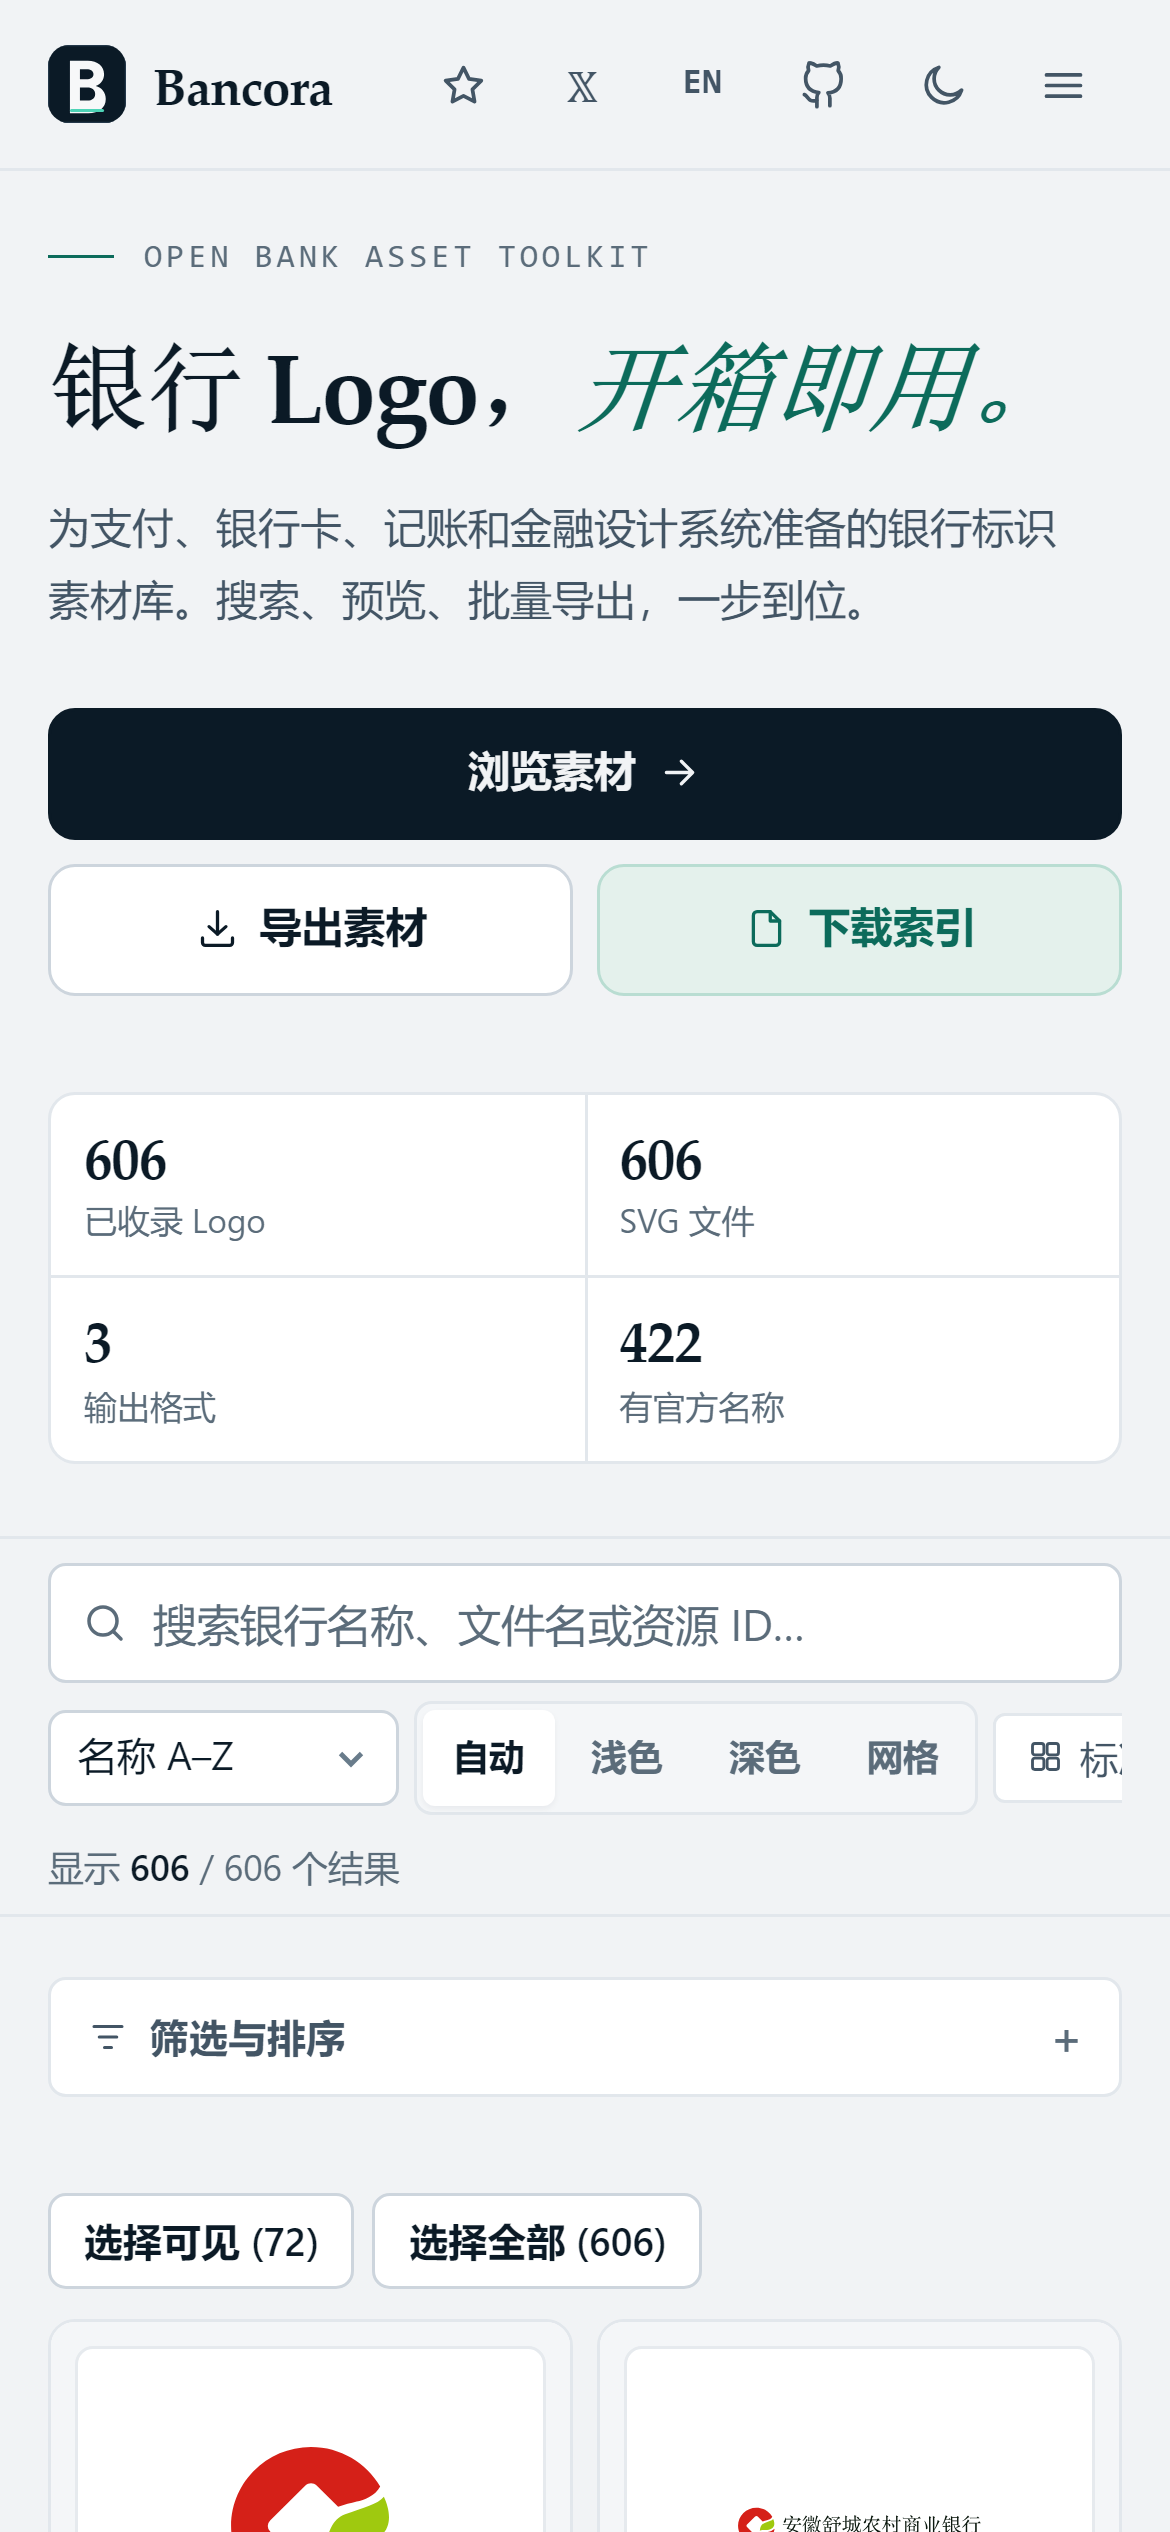
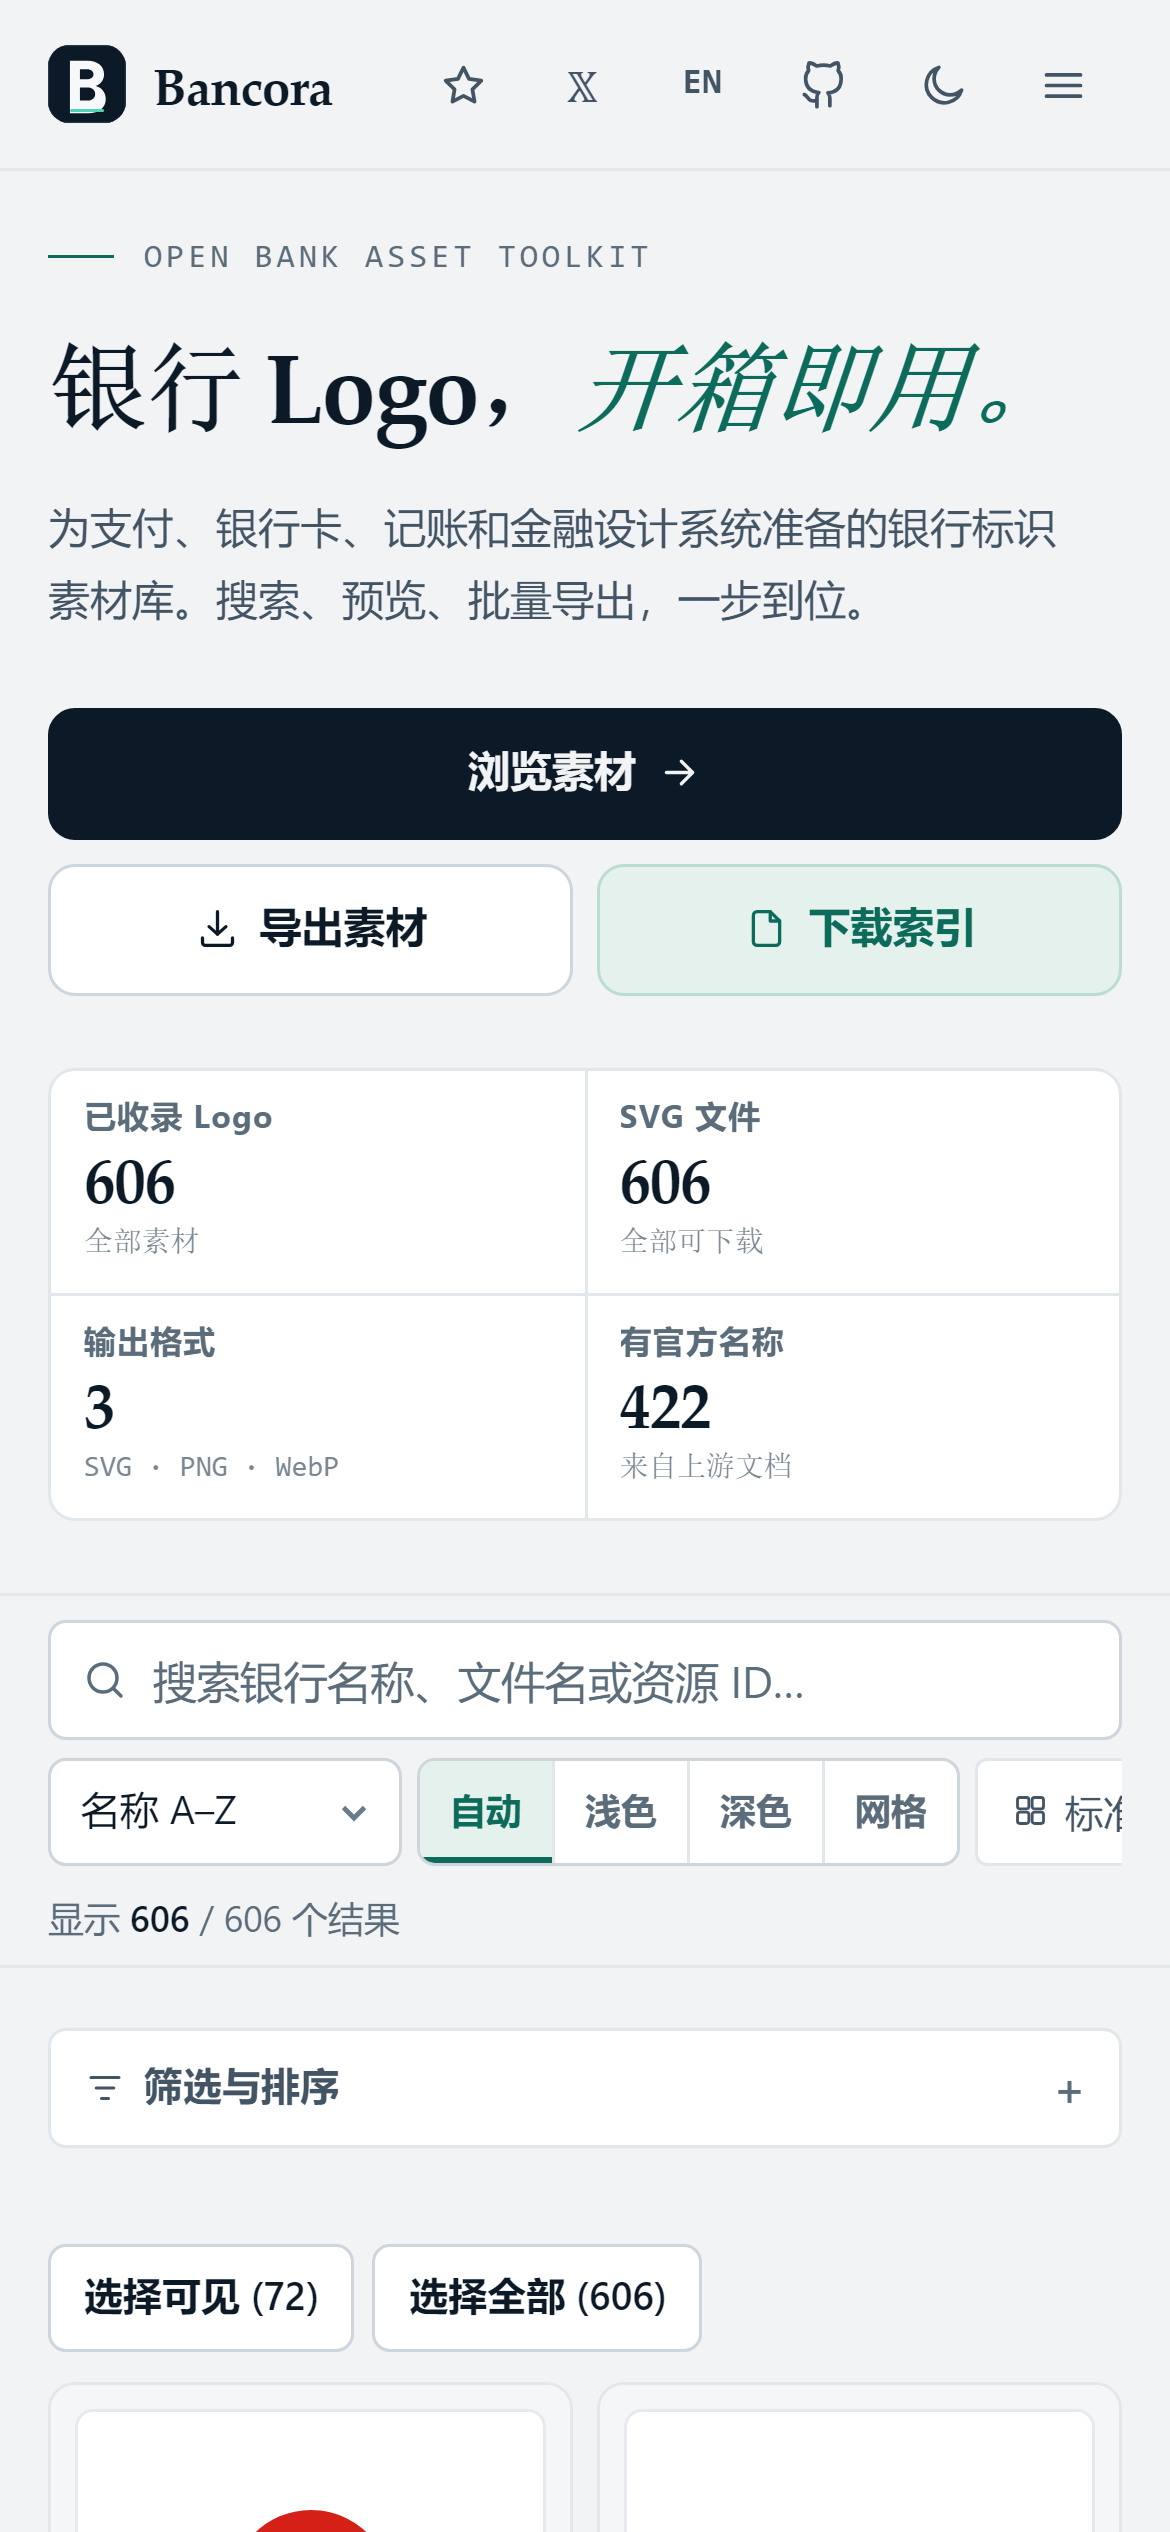
style: table-style hero stats and balanced footer

diff --git a/src/styles/app.css b/src/styles/app.css
@@ -352,11 +352,11 @@
   }
 }
 
-.hero__stats {
+.stats {
   display: grid;
   grid-template-columns: repeat(4, minmax(0, 1fr));
   gap: 1px;
-  margin-top: var(--s7);
+  margin: var(--s6) 0 0;
   border: 1px solid var(--line);
   border-radius: var(--r-md);
   background: var(--line);
@@ -364,26 +364,50 @@
 }
 
 .stat {
+  display: flex;
+  flex-direction: column;
+  gap: 2px;
   background: var(--surface);
-  padding: 12px 14px;
+  padding: 11px 14px 12px;
   min-width: 0;
 }
 
+.stat__label {
+  order: 0;
+  font-size: 0.6875rem;
+  font-weight: 650;
+  letter-spacing: 0.05em;
+  color: var(--muted);
+  line-height: 1.3;
+  white-space: nowrap;
+  overflow: hidden;
+  text-overflow: ellipsis;
+}
+
 .stat__value {
+  order: 1;
+  margin: 0;
   font-family: var(--font-display);
-  font-size: 1.375rem;
+  font-size: 1.5rem;
   font-weight: 600;
   letter-spacing: -0.02em;
   font-variant-numeric: tabular-nums;
-  line-height: 1.2;
+  line-height: 1.15;
+  color: var(--ink);
   white-space: nowrap;
 }
 
-.stat__label {
-  font-size: 0.71875rem;
-  color: var(--muted);
-  margin-top: 3px;
-  line-height: 1.35;
+.stat__hint {
+  order: 2;
+  margin: 0;
+  font-family: var(--font-mono);
+  font-size: 0.625rem;
+  letter-spacing: 0.01em;
+  color: color-mix(in srgb, var(--muted) 82%, transparent);
+  line-height: 1.4;
+  white-space: nowrap;
+  overflow: hidden;
+  text-overflow: ellipsis;
 }
 
 .showcase {
@@ -987,8 +1011,14 @@
 .load-more__btn {
   flex: none;
   height: 42px;
-  padding: 0 18px;
-  gap: 8px;
+  padding: 0 16px;
+  gap: 7px;
+  white-space: nowrap;
+  flex-wrap: nowrap;
+}
+
+.load-more__btn > * {
+  flex: none;
 }
 
 .load-more__count {
@@ -1883,9 +1913,65 @@
 
 .footer__top {
   display: grid;
-  grid-template-columns: minmax(0, 1.5fr) minmax(0, 1fr);
-  gap: var(--s6);
+  grid-template-columns: minmax(0, 1fr) minmax(0, 1.25fr);
+  grid-template-rows: auto auto;
+  gap: var(--s5) var(--s8);
+  align-items: start;
   padding-bottom: var(--s5);
+}
+
+.footer__brand {
+  grid-column: 1;
+  grid-row: 1;
+}
+
+.footer__stats {
+  grid-column: 1;
+  grid-row: 2;
+  align-self: end;
+}
+
+.footer__cols {
+  grid-column: 2;
+  grid-row: 1 / span 2;
+  align-self: center;
+}
+
+/* Brand block on the left, a compact credibility strip on the right. */
+.footer__stats {
+  display: grid;
+  grid-template-columns: repeat(3, minmax(0, 1fr));
+  gap: 1px;
+  border: 1px solid var(--line);
+  border-radius: var(--r-md);
+  background: var(--line);
+  overflow: hidden;
+  align-self: start;
+}
+
+.footer__stat {
+  display: flex;
+  flex-direction: column;
+  gap: 1px;
+  padding: 10px 12px;
+  background: var(--surface-raised);
+  min-width: 0;
+}
+
+.footer__stat-value {
+  font-family: var(--font-display);
+  font-size: 1.0625rem;
+  font-weight: 600;
+  letter-spacing: -0.02em;
+  line-height: 1.2;
+  white-space: nowrap;
+}
+
+.footer__stat-label {
+  font-size: 0.625rem;
+  color: var(--muted);
+  line-height: 1.3;
+  white-space: nowrap;
 }
 
 .footer__links {
@@ -2030,7 +2116,15 @@
 
   .footer__top {
     grid-template-columns: minmax(0, 1fr);
+    grid-template-rows: auto;
     gap: var(--s5);
+  }
+
+  .footer__brand,
+  .footer__stats,
+  .footer__cols {
+    grid-column: 1;
+    grid-row: auto;
   }
 
   .footer__cols {
@@ -2114,7 +2208,7 @@
     grid-template-columns: repeat(2, minmax(0, 1fr));
   }
 
-  .hero__stats {
+  .stats {
     grid-template-columns: repeat(2, minmax(0, 1fr));
   }
 }
@@ -2182,15 +2276,19 @@
   }
 
   .stat {
-    padding: 10px 11px;
+    padding: 9px 11px 10px;
   }
 
   .stat__value {
-    font-size: 1.1875rem;
+    font-size: 1.3125rem;
   }
 
   .stat__label {
-    font-size: 0.6875rem;
+    font-size: 0.65625rem;
+  }
+
+  .stat__hint {
+    font-size: 0.59375rem;
   }
 
   .explorer__bar {
@@ -2285,10 +2383,12 @@
   .filters-toggle {
     display: flex;
     align-items: center;
-    gap: 7px;
+    flex-wrap: nowrap;
+    gap: 6px;
     width: 100%;
     height: 40px;
-    padding: 0 12px;
+    padding: 0 11px;
+    white-space: nowrap;
     border: 1px solid var(--line);
     border-radius: var(--r-sm);
     background: var(--surface);
@@ -2538,9 +2638,7 @@
     grid-template-columns: repeat(2, minmax(0, 1fr));
   }
 
-  .hero__stats {
-    grid-template-columns: repeat(2, minmax(0, 1fr));
-  }
+
 
   .btn {
     padding: 0 12px;

diff --git a/src/components/StatsBar.tsx b/src/components/StatsBar.tsx
@@ -1,6 +1,12 @@
 import { useApp } from '../context/AppContext';
 
-/** Hero statistics, computed from the loaded index — never hard-coded. */
+/**
+ * Hero statistics.
+ *
+ * Layout: label (small caps) → value (serif, tabular) → caption. All three lines
+ * line up across the four cells, so the strip reads as one table instead of four
+ * unrelated numbers. Values are computed from the loaded index — never hard-coded.
+ */
 export function StatsBar() {
   const { dataset, assets, t } = useApp();
 
@@ -10,20 +16,21 @@ export function StatsBar() {
   const formatter = new Intl.NumberFormat('en-US');
 
   const items = [
-    { value: total ? formatter.format(total) : '—', label: t('hero.stat.total') },
-    { value: svgCount ? formatter.format(svgCount) : '—', label: t('hero.stat.svg') },
-    { value: '3', label: t('hero.stat.formats') },
-    { value: total ? formatter.format(documented) : '—', label: t('hero.stat.named') },
+    { label: t('hero.stat.total'), value: total ? formatter.format(total) : '—', hint: t('hero.stat.totalHint') },
+    { label: t('hero.stat.svg'), value: svgCount ? formatter.format(svgCount) : '—', hint: t('hero.stat.svgHint') },
+    { label: t('hero.stat.formats'), value: '3', hint: t('hero.stat.formatsHint') },
+    { label: t('hero.stat.named'), value: total ? formatter.format(documented) : '—', hint: t('hero.stat.namedHint') },
   ];
 
   return (
-    <div className="hero__stats" aria-label={t('hero.stat.total')}>
+    <dl className="stats" aria-label={t('hero.stat.total')}>
       {items.map((item) => (
-        <div key={item.label} className="stat">
-          <div className="stat__value">{item.value}</div>
-          <div className="stat__label">{item.label}</div>
+        <div className="stat" key={item.label}>
+          <dt className="stat__label">{item.label}</dt>
+          <dd className="stat__value">{item.value}</dd>
+          <dd className="stat__hint">{item.hint}</dd>
         </div>
       ))}
-    </div>
+    </dl>
   );
 }

diff --git a/src/lib/i18n.ts b/src/lib/i18n.ts
@@ -29,6 +29,10 @@ const DICT = {
     'hero.stat.svg': 'SVG 文件',
     'hero.stat.formats': '输出格式',
     'hero.stat.named': '有官方名称',
+    'hero.stat.totalHint': '全部素材',
+    'hero.stat.svgHint': '全部可下载',
+    'hero.stat.formatsHint': 'SVG · PNG · WebP',
+    'hero.stat.namedHint': '来自上游文档',
     'hero.showcaseNote': '真实素材预览 · 自动适配深浅底色',
 
     'search.placeholder': '搜索银行名称、文件名或资源 ID…',
@@ -273,6 +277,10 @@ const EN: Partial<Record<DictKey, string>> = {
   'hero.stat.svg': 'SVG files',
   'hero.stat.formats': 'Output formats',
   'hero.stat.named': 'Documented names',
+  'hero.stat.totalHint': 'in the collection',
+  'hero.stat.svgHint': 'all downloadable',
+  'hero.stat.formatsHint': 'SVG · PNG · WebP',
+  'hero.stat.namedHint': 'from upstream docs',
   'hero.showcaseNote': 'Real assets · contrast-aware plates',
   'search.placeholder': 'Search by bank, file name or asset ID…',
   'search.label': 'Search bank logos',

diff --git a/src/components/Footer.tsx b/src/components/Footer.tsx
@@ -33,6 +33,21 @@ export function Footer() {
             </p>
           </div>
 
+          <div className="footer__stats" aria-hidden>
+            <div className="footer__stat">
+              <span className="footer__stat-value">606</span>
+              <span className="footer__stat-label">{zh ? 'SVG 素材' : 'SVG assets'}</span>
+            </div>
+            <div className="footer__stat">
+              <span className="footer__stat-value">MIT</span>
+              <span className="footer__stat-label">{zh ? '开源许可' : 'licence'}</span>
+            </div>
+            <div className="footer__stat">
+              <span className="footer__stat-value">100%</span>
+              <span className="footer__stat-label">{zh ? '本地处理' : 'in-browser'}</span>
+            </div>
+          </div>
+
           <nav className="footer__links" aria-label={zh ? '页脚导航' : 'Footer navigation'}>
             <Link to="/">{t('nav.explore')}</Link>
             <Link to="/convert">{t('nav.convert')}</Link>

diff --git a/docs/REDESIGN.md b/docs/REDESIGN.md
@@ -121,3 +121,39 @@
 - 详情面板的底板切换与收藏/导出篮按钮、检查器的状态筛选也同时对齐。
 
 验证：桌面 4 个控件全部 34px、`top` 完全一致；手机上全部 36px。新增回归测试「toolbar controls share one height and baseline」。浏览器检查 31 → **32**。
+
+
+## 11. Hero 统计与页脚平衡
+
+### 统计条（606 / 606 / 3 / 422）
+
+原本是「数字在上、标签在下」的四宫格，数字大小一致但读起来像四个孤立的数。改为三段式表格式排版：
+
+```
+已收录 Logo        已收录 SVG 文件        输出格式          有官方名称
+606                606                   3                 422
+全部素材            全部可下载             SVG · PNG · WebP   来自上游文档
+```
+
+- 第一行小号大写标签，第二行衬线数字（tabular-nums 对齐），第三行等宽小字说明
+- 四列等宽、四行严格同基线，桌面 165×83，手机两列 178×74
+- 用 `<dl>/<dt>/<dd>` 语义标签，读屏软件能正确关联标签与数值
+- 深色模式同样对齐，无截断
+
+### 页脚右侧空白
+
+原来品牌块占左侧 758px，右侧只有 506px 的三列链接，中间和底部大片留白。重新分配为两列 + 两行：
+
+```
+┌─────────────────────────────┬──────────────────────────────┐
+│ Bancora + 简介               │  工具      开发      项目     │
+│                             │  素材库    开发者    关于     │
+├─────────────────────────────┤  …         …        …        │
+│ 606 SVG │ MIT │ 100% 本地    │                              │
+└─────────────────────────────┴──────────────────────────────┘
+```
+
+- 左侧：品牌 + 简介 + 一条三格的小数据条（606 SVG / MIT / 100% 本地处理）
+- 右侧：三列站点地图垂直居中，填满右侧空间
+- 页脚总高从 301px 降到 **210px**，视觉上左右平衡
+- ≤1120px 收为单列：品牌 → 数据条 → 胶囊链接，手机高度 292px

diff --git a/docs/TEST_REPORT.md b/docs/TEST_REPORT.md
@@ -1,8 +1,8 @@
 # Bancora — Browser Test Report
 
-Generated by `npm run test:e2e` against http://localhost:4173 at 2026-10-24T20:12:21.186Z.
+Generated by `npm run test:e2e` against http://localhost:4173 at 2026-10-24T20:50:25.650Z.
 
-**32/32 checks passed.**
+**33/33 checks passed.**
 
 | Result | Check | Observed |
 | --- | --- | --- |
@@ -19,6 +19,7 @@ Generated by `npm run test:e2e` against http://localhost:4173 at 2026-10-24T20:1
 | Pass | mobile menu navigates home and closes itself | closed + home |
 | Pass | header and footer link to the project repository | https://github.com/iiiiiiiiiiiiiKK/bancora |
 | Pass | toolbar controls share one height and baseline | 4 controls · all 34px tall, tops aligned |
+| Pass | hero statistics form an aligned four-column table | 4 cells · 165×83 · 606 / 606 / 3 / 422 |
 | Pass | variant filter narrows the collection | rect → 211 |
 | Pass | details dialog shows real metadata and code snippets | metadata + HTML + React |
 | Pass | copy asset URL writes the absolute URL to the clipboard | http://localhost:4173/logos/pbc-rect.svg |

diff --git a/docs/TESTING.md b/docs/TESTING.md
@@ -14,7 +14,7 @@ This file is the human-readable index. The generated sources are:
 | `npm run assets:validate` | data invariants against files | 10/10 checks |
 | `npm run test` | Vitest | 9 files, 73 tests passed |
 | `npm run build` | `tsc -b && vite build && postbuild` | success, `dist/` with 606 SVGs + host configs |
-| `npm run test:e2e` | real Chrome against `vite preview` | 32/32 checks |
+| `npm run test:e2e` | real Chrome against `vite preview` | 33/33 checks |
 
 ## What the browser suite verifies (not just "the button clicked")
 
